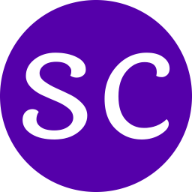
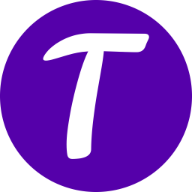
Update page title in index.html

Changed region(s): [[0.0938, 0.1562, 0.9062, 0.8438]]

diff --git a/src/components/About.jsx b/src/components/About.jsx
@@ -47,21 +47,25 @@ const About = () => {
           variants={fadeIn("", "", 0.1, 1)}
           className="mt-4 text-secondary text-[17px] max-w-3xl leading-[30px]"
         >
-          Certainly! Based on your studies in C++, cloud security research, and
-          React, you have acquired a well-rounded skill set that spans both
-          programming and security domains. In C++, you've delved into the
-          intricacies of a powerful and versatile programming language,
-          mastering its syntax and principles. Your exploration into cloud
-          security research reflects a commitment to understanding and
-          addressing the evolving challenges in securing cloud-based systems,
-          showcasing your dedication to staying abreast of cutting-edge
-          technologies and cybersecurity concerns. Additionally, your
-          proficiency in React signifies your ability to develop dynamic and
-          responsive user interfaces, highlighting your expertise in front-end
-          web development. Altogether, your knowledge in C++, cloud security
-          research, and React positions you at the intersection of software
-          development and cybersecurity, making you well-equipped to tackle
-          complex challenges in today's technology landscape.
+          I've delved into the intricacies of Python, SQL, and data analysis,
+          forming a robust foundation for navigating the world of data. This
+          skill set enables me to proficiently manage and analyze large
+          datasets, extracting valuable insights. The integration of Power BI
+          into my toolkit amplifies my ability to create compelling
+          visualizations, transforming raw data into actionable information.
+          Beyond the realm of technology, I find joy and expression in playing
+          the guitar, exploring the artistic side of my personality. This
+          creative outlet not only serves as a source of relaxation but also
+          contributes to a well-balanced lifestyle. Meanwhile, my involvement in
+          basketball reflects my passion for physical activity and teamwork,
+          fostering skills beyond the digital landscape. In my view, the fusion
+          of technical expertise and personal interests creates a unique and
+          versatile profile. It opens doors to diverse opportunities, from
+          contributing to data-driven decision-making in professional spheres to
+          finding innovative ways to merge my skills with my hobbies. As I
+          continue on this journey, I aim to explore advanced aspects of data
+          science and seek avenues where my multifaceted skill set can bring a
+          distinctive perspective to both my work and personal endeavors.
         </motion.p>
         {/* <img
           src={me}

diff --git a/src/constants/index.js b/src/constants/index.js
@@ -13,7 +13,9 @@ import {
   mongodb,
   git,
   sql,
-  cpp,
+  python,
+  basketball,
+  guitar,
   meta,
   starbucks,
   tesla,
@@ -40,15 +42,15 @@ export const navLinks = [
 
 const services = [
   {
-    title: "Cloud Computing",
+    title: "Data Analyst",
     icon: web,
   },
   {
-    title: "Neural Network",
+    title: "Guitarist",
     icon: mobile,
   },
   {
-    title: "Java Developer",
+    title: "Python Developer",
     icon: backend,
   },
   {
@@ -99,9 +101,17 @@ const technologies = [
     icon: sql,
   },
   {
-    name: "cpp",
-    icon: cpp,
-  }
+    name: "python",
+    icon: python,
+  },
+  {
+    name: "basketball",
+    icon: basketball,
+  },
+  {
+    name: "guitar",
+    icon: guitar,
+  },
 ];
 
 const experiences = [

diff --git a/src/components/Hero.jsx b/src/components/Hero.jsx
@@ -16,11 +16,11 @@ const Hero = () => {
 
         <div>
           <h1 className={`${styles.heroHeadText} text-white`}>
-            Hi, I'm <span className="text-[#915EFF]">Shreyash Chopade</span>
+            Hi, I'm <span className="text-[#915EFF]">Tejas Indrale</span>
           </h1>
           <p className={`${styles.heroSubText} mt-2 text-white-100`}>
             a Programmer and <br className="sm:block hidden" />
-            Cloud enthusiast
+            Data science enthusiast
           </p>
         </div>
       </div>

diff --git a/src/assets/index.js b/src/assets/index.js
@@ -22,6 +22,9 @@ import tailwind from "./tech/tailwind.png";
 import typescript from "./tech/typescript.png";
 import threejs from "./tech/threejs.svg";
 import cpp from "./tech/cpp.png";
+import python from './tech/python.png';
+import basketball from './tech/basketball.png';
+import guitar from './tech/guitar.png';
 
 import meta from "./company/meta.png";
 import shopify from "./company/shopify.png";
@@ -44,6 +47,9 @@ export {
   css,
   docker,
   figma,
+  python,
+  basketball,
+  guitar,
   git,
   cpp,
   sql,

diff --git a/src/components/Navbar.jsx b/src/components/Navbar.jsx
@@ -44,7 +44,7 @@ const Navbar = () => {
         >
           <img src={logo} alt="logo" className="w-9 h-9 object-contain" />
           <p className="text-white text-[18px] font-bold cursor-pointer flex ">
-            <span className="sm:block hidden">Shreyash Chopade</span>
+            <span className="sm:block hidden">Tejas Indrale</span>
           </p>
         </Link>
 

diff --git a/index.html b/index.html
@@ -4,7 +4,7 @@
     <meta charset="UTF-8" />
     <link rel="icon" type="image/svg+xml" href="/favicon.ico" />
     <meta name="viewport" content="width=device-width, initial-scale=1.0" />
-    <title>Shreyash Chopade</title>
+    <title>Tejas Indrale</title>
   </head>
   <body>
     <div id="root"></div>
